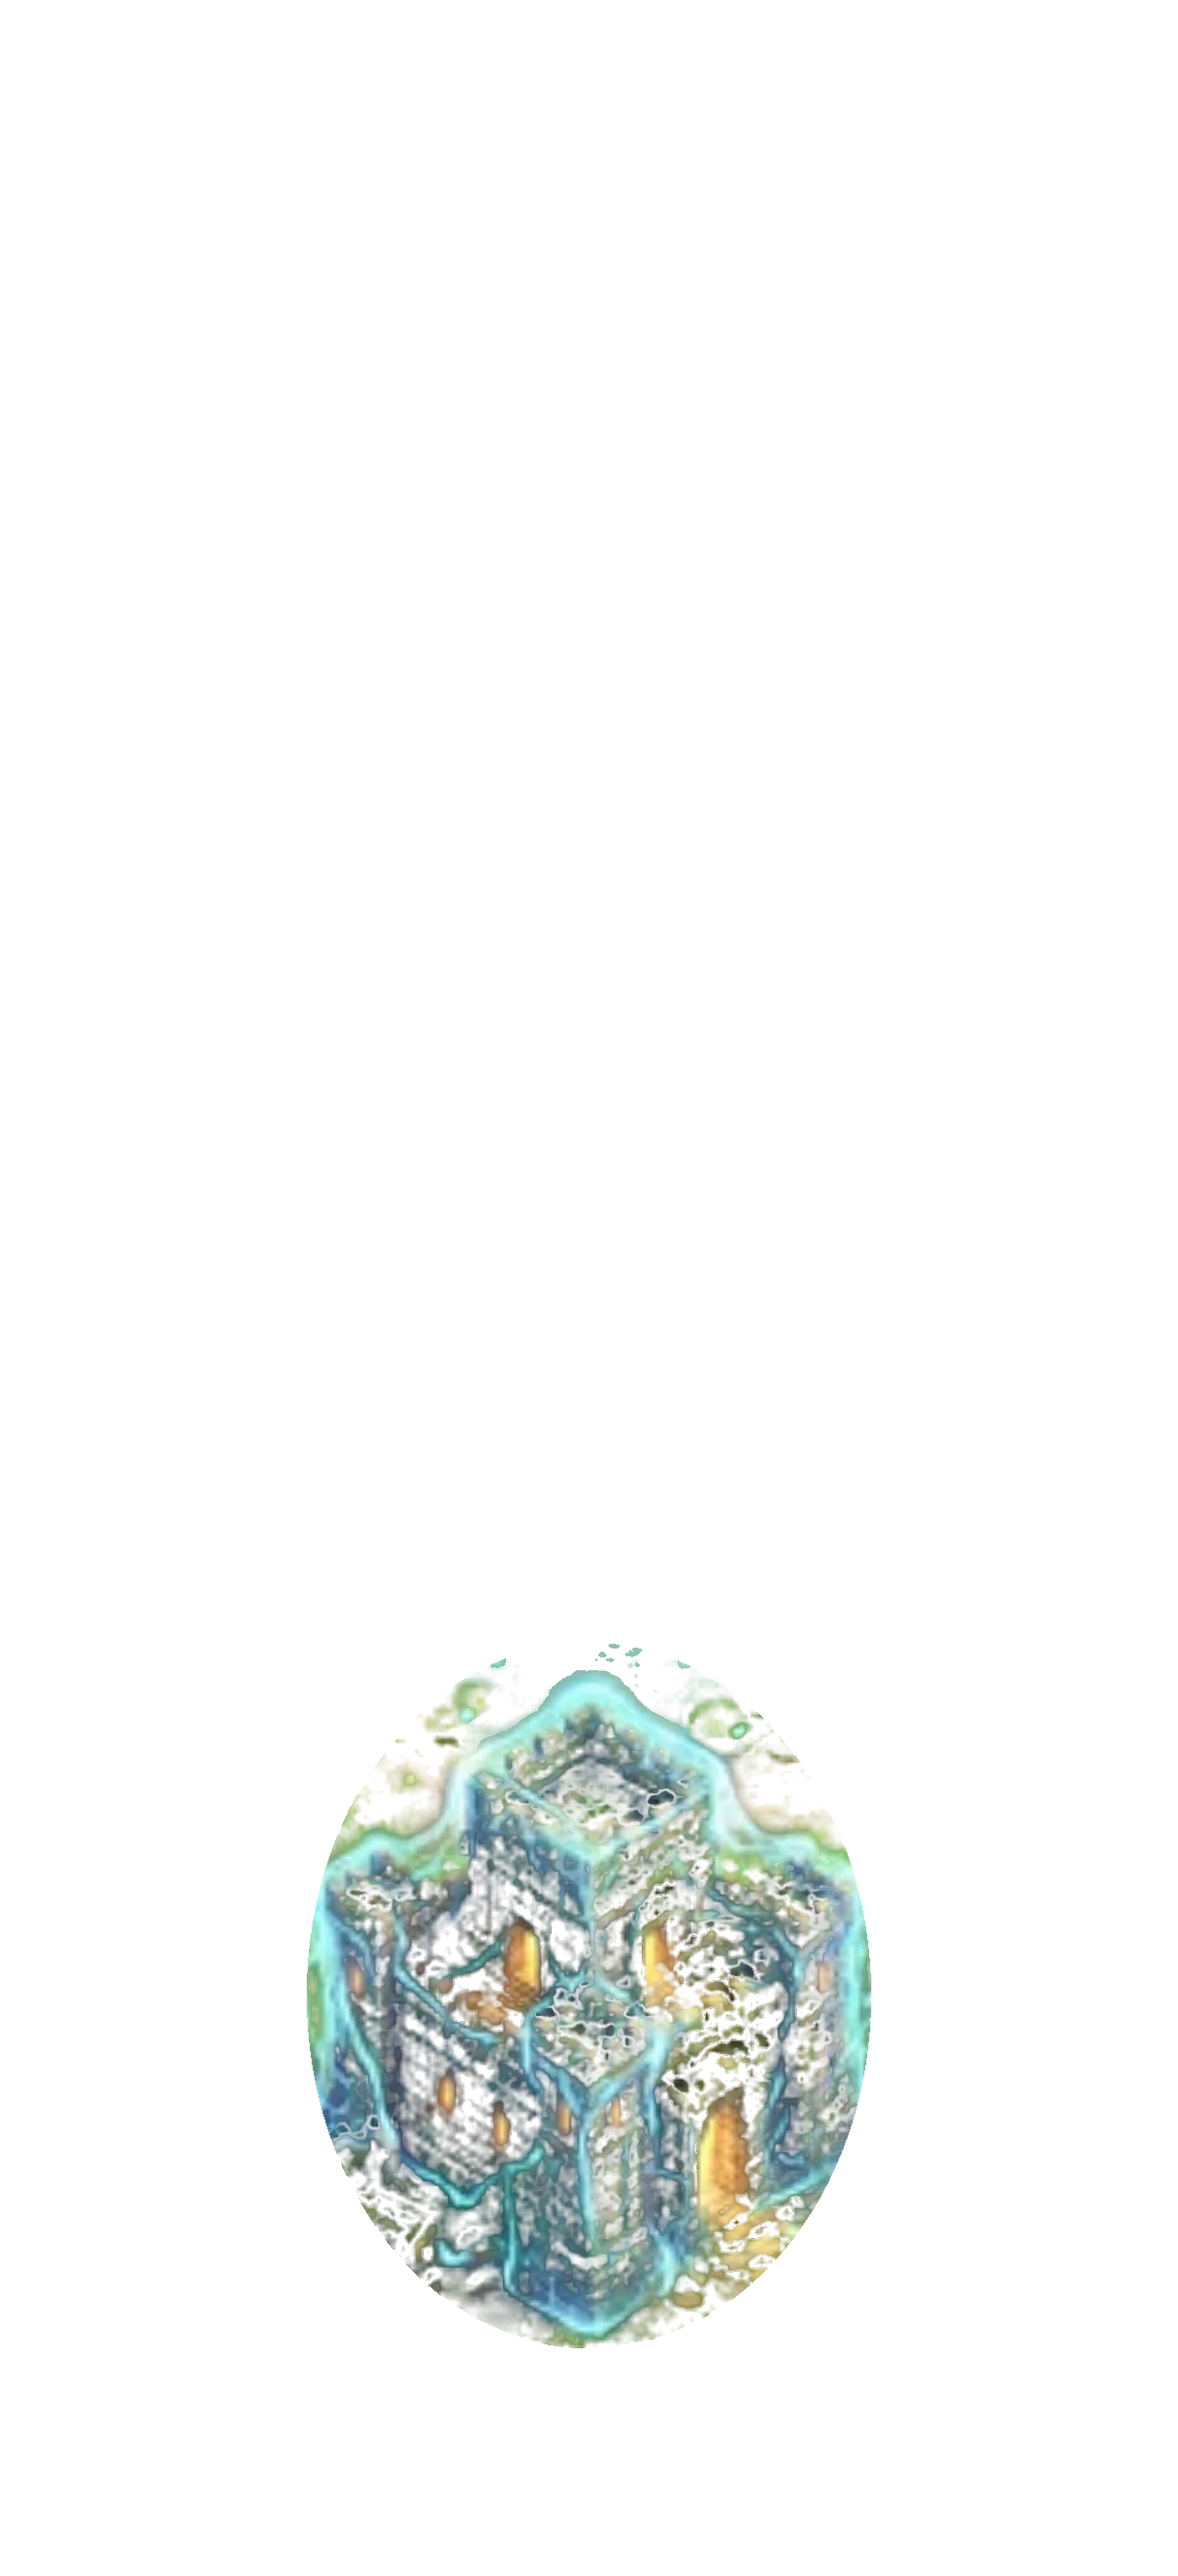
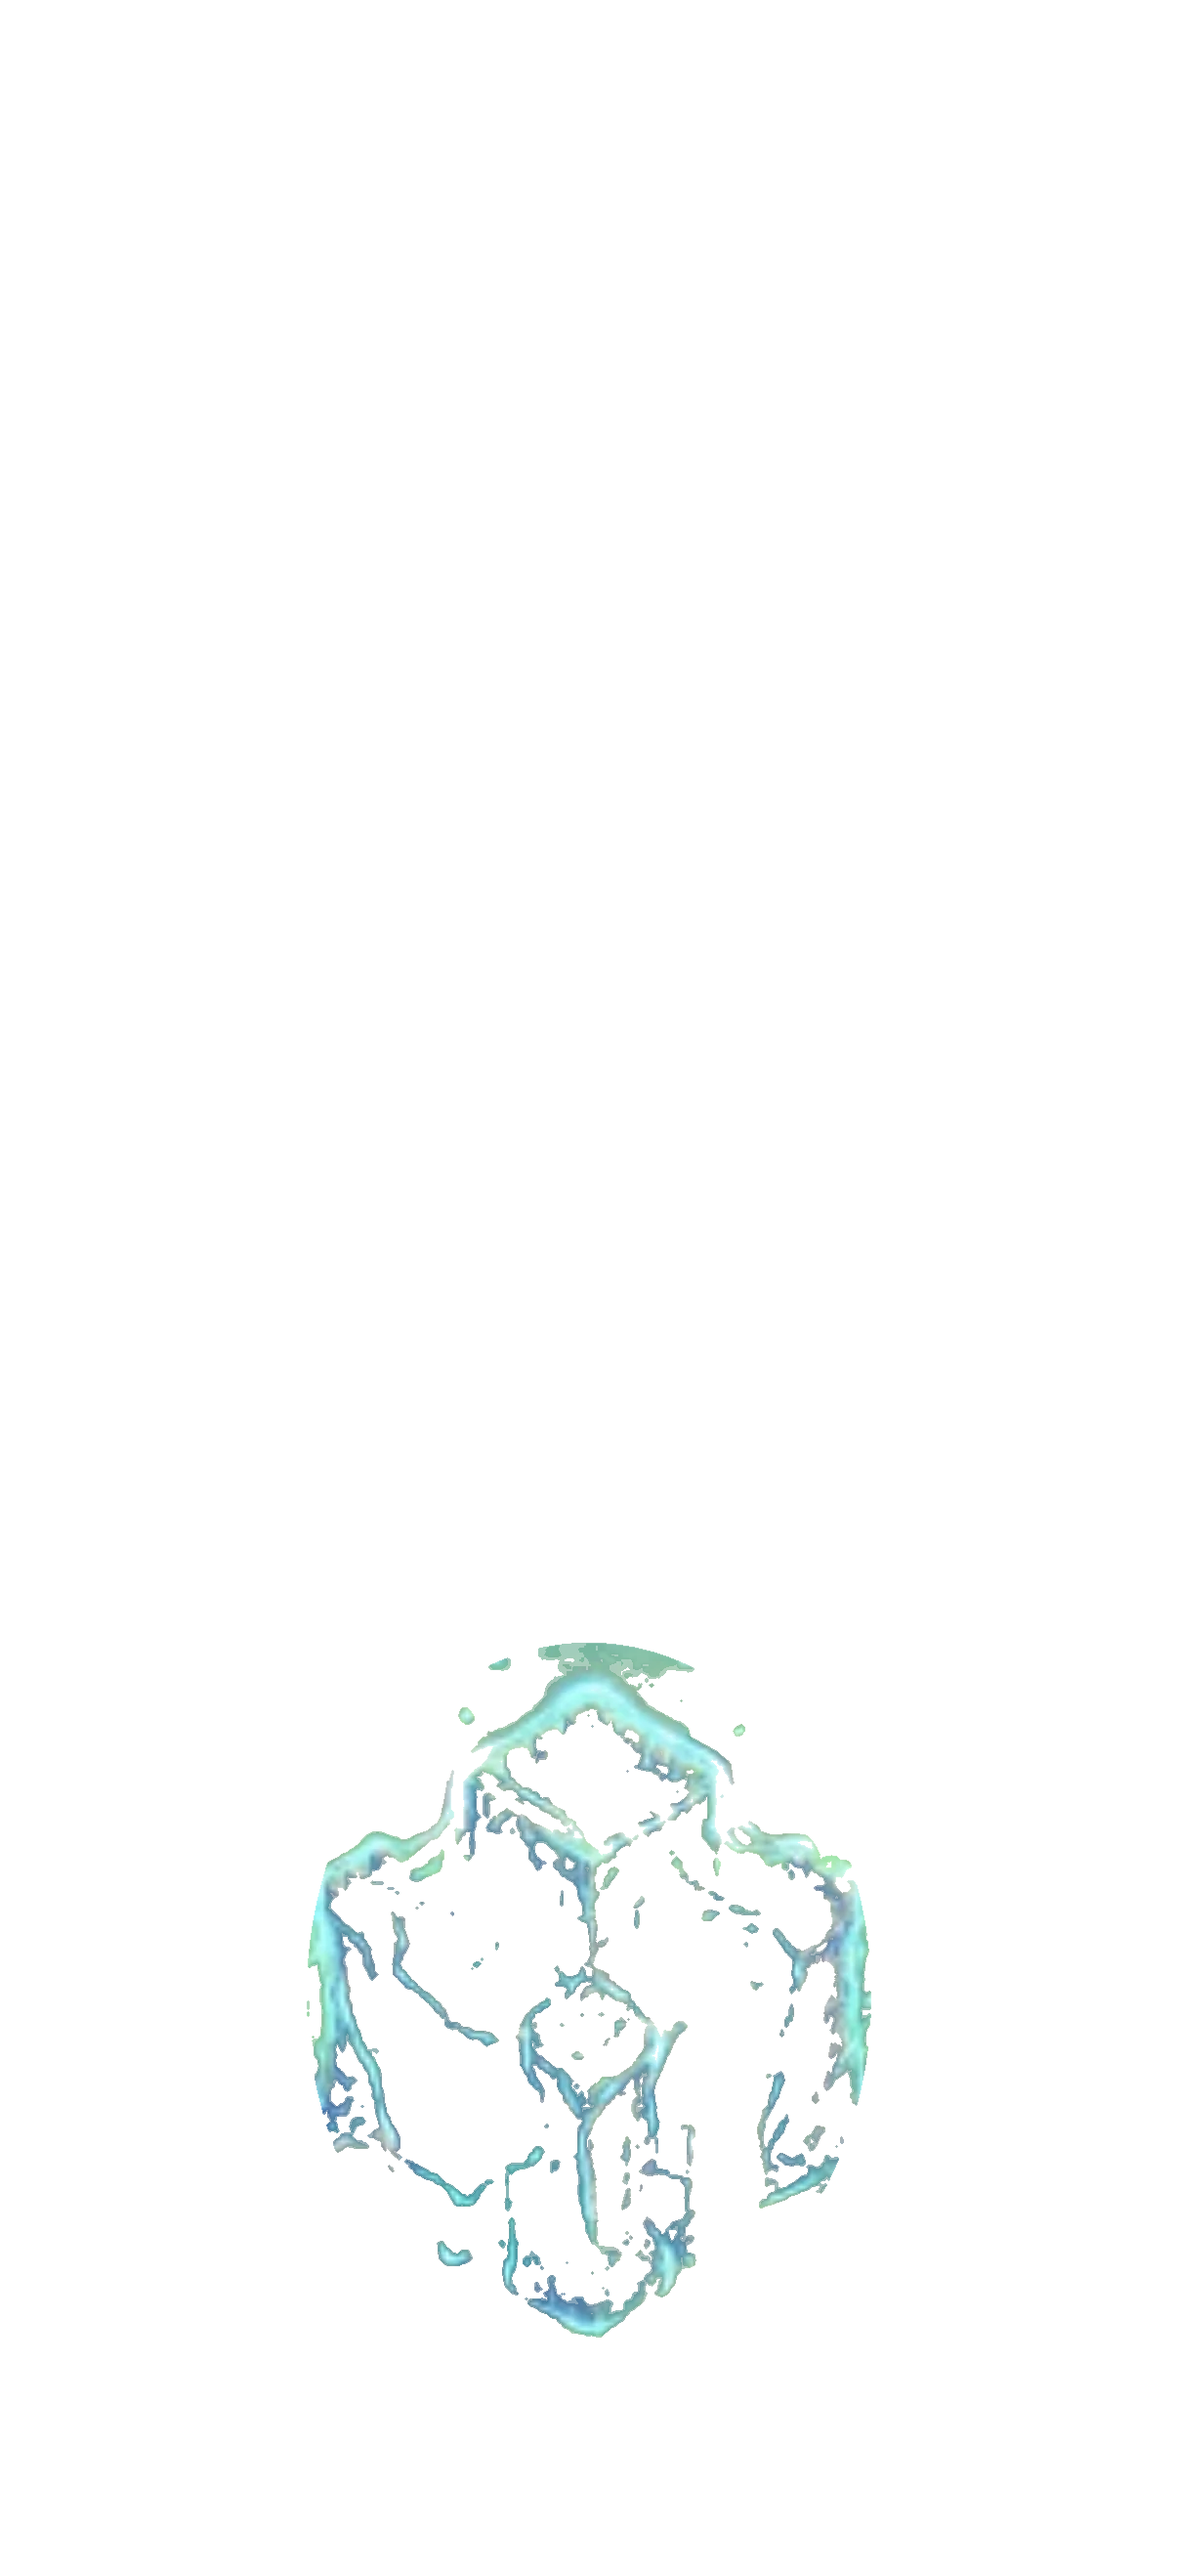
Keep the forcefield as lightning, not a frosted keep
Extract only the electric veins so the ward can breathe without
double-exposing the masonry, and add the veil with a lighten pass.

Changed region(s): [[0.2454, 0.6222, 0.7363, 0.9332]]

diff --git a/src/render.ts b/src/render.ts
@@ -690,9 +690,16 @@ export class Renderer {
 
   /* ------------------------------- arena --------------------------------- */
 
-  private drawArenaImage(ctx: CanvasRenderingContext2D, img: HTMLImageElement, alpha = 1, yShift = 0): void {
+  private drawArenaImage(
+    ctx: CanvasRenderingContext2D,
+    img: HTMLImageElement,
+    alpha = 1,
+    yShift = 0,
+    composite: GlobalCompositeOperation = 'source-over',
+  ): void {
     const r = this.boardRect();
     ctx.save();
+    ctx.globalCompositeOperation = composite;
     ctx.globalAlpha = alpha;
     ctx.beginPath();
     ctx.roundRect(r.left - 3, r.top - 3, r.w + 6, r.h + 6, 12);
@@ -918,8 +925,8 @@ export class Renderer {
         const field = getOasisOverlay(`forcefield-${side}`);
         if (field) {
           // Slow breathe, clearly visible — never fades all the way out.
-          const pulse = 0.44 + 0.50 * (0.5 + 0.5 * Math.sin(this.time * 2.02));
-          this.drawArenaImage(ctx, field, pulse);
+          const pulse = 0.38 + 0.52 * (0.5 + 0.5 * Math.sin(this.time * 2.02));
+          this.drawArenaImage(ctx, field, pulse, 0, 'lighter');
         }
       }
     }
